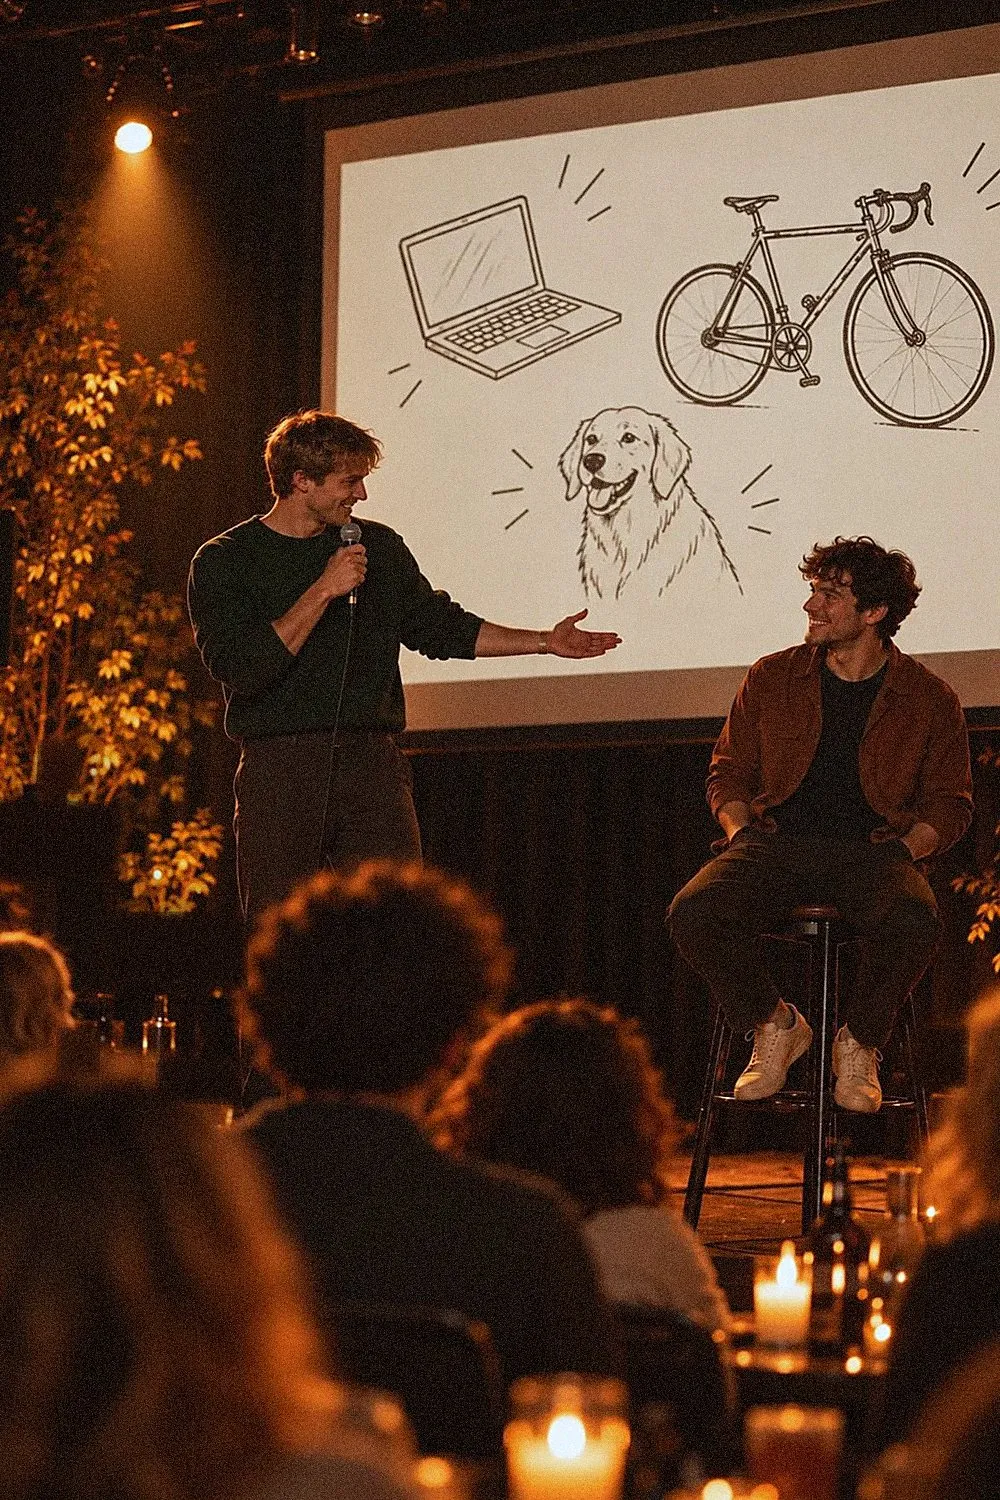
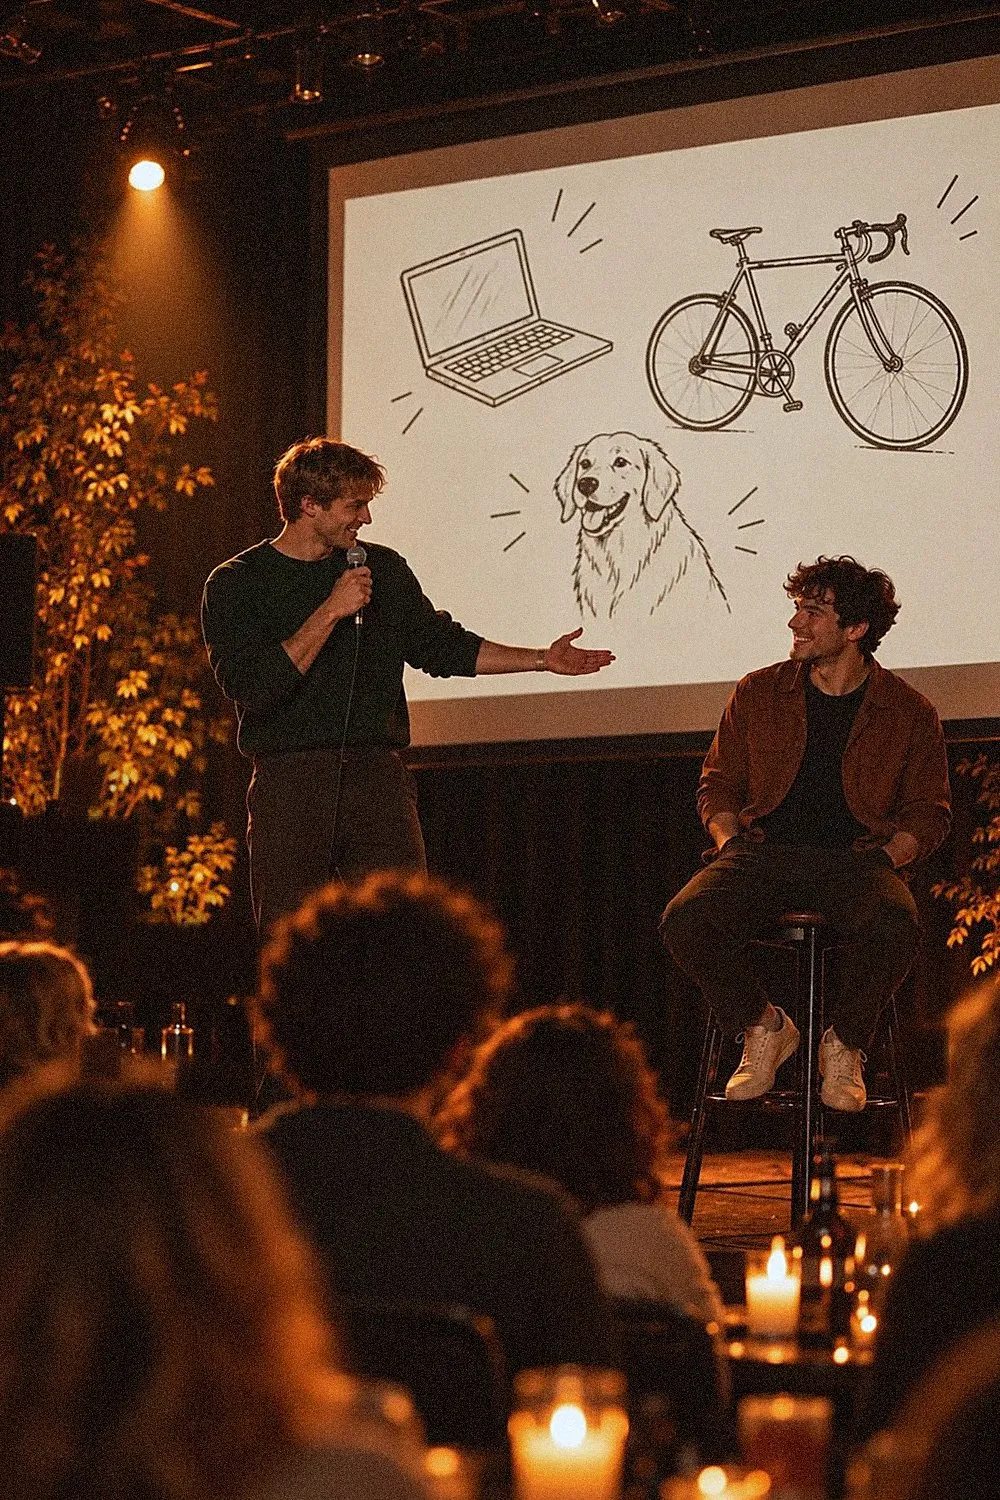
Fotka pódia: oddialené, viac publika

diff --git a/index.html b/index.html
@@ -21,7 +21,7 @@
   <link rel="preload" href="fonts/texgyreadventor-bold.woff2" as="font" type="font/woff2" crossorigin>
   <link rel="icon" type="image/png" href="favicon.png?v=3">
   <link rel="apple-touch-icon" href="img/apple-touch-icon.png?v=3">
-  <link rel="stylesheet" href="styles.css?v=271">
+  <link rel="stylesheet" href="styles.css?v=272">
   <script src="consent.js?v=2" defer></script>
 </head>
 <body>
@@ -189,7 +189,7 @@
             </div>
           </div>
           <div class="hero-photo podium-photo">
-            <img class="hero-img" loading="lazy" src="img/podium-prezentacia.webp?v=5" srcset="img/podium-prezentacia-600.webp?v=5 600w, img/podium-prezentacia-800.webp?v=5 800w, img/podium-prezentacia.webp?v=5 1000w" sizes="(max-width: 760px) 100vw, 40vw" alt="Kamarát na pódiu s mikrofónom predstavuje svojho single kamaráta, za nimi plátno s obrázkami jeho záľub" width="1000" height="1500">
+            <img class="hero-img" loading="lazy" src="img/podium-prezentacia.webp?v=6" srcset="img/podium-prezentacia-600.webp?v=6 600w, img/podium-prezentacia-800.webp?v=6 800w, img/podium-prezentacia.webp?v=6 1000w" sizes="(max-width: 760px) 100vw, 40vw" alt="Kamarát na pódiu s mikrofónom predstavuje svojho single kamaráta, za nimi plátno s obrázkami jeho záľub" width="1000" height="1500">
             <ul class="ifacts ifacts-ticket ifacts-lime ifacts-2x2">
               <li><p class="label">Na pódiu</p><strong>5 žien + 5 mužov</strong></li>
               <li><p class="label">Prezentácia</p><strong>max. 5 minút</strong></li>

diff --git a/single-show.html b/single-show.html
@@ -21,7 +21,7 @@
   <link rel="preload" href="fonts/texgyreadventor-bold.woff2" as="font" type="font/woff2" crossorigin>
   <link rel="icon" type="image/png" href="favicon.png?v=3">
   <link rel="apple-touch-icon" href="img/apple-touch-icon.png?v=3">
-  <link rel="stylesheet" href="styles.css?v=271">
+  <link rel="stylesheet" href="styles.css?v=272">
   <script src="consent.js?v=2" defer></script>
 </head>
 <body>
@@ -168,7 +168,7 @@
             </div>
           </div>
           <div class="hero-photo podium-photo">
-            <img class="hero-img" loading="lazy" src="img/podium-prezentacia.webp?v=5" srcset="img/podium-prezentacia-600.webp?v=5 600w, img/podium-prezentacia-800.webp?v=5 800w, img/podium-prezentacia.webp?v=5 1000w" sizes="(max-width: 760px) 100vw, 40vw" alt="Kamarát na pódiu s mikrofónom predstavuje svojho single kamaráta, za nimi plátno s obrázkami jeho záľub" width="1000" height="1500">
+            <img class="hero-img" loading="lazy" src="img/podium-prezentacia.webp?v=6" srcset="img/podium-prezentacia-600.webp?v=6 600w, img/podium-prezentacia-800.webp?v=6 800w, img/podium-prezentacia.webp?v=6 1000w" sizes="(max-width: 760px) 100vw, 40vw" alt="Kamarát na pódiu s mikrofónom predstavuje svojho single kamaráta, za nimi plátno s obrázkami jeho záľub" width="1000" height="1500">
             <ul class="ifacts ifacts-ticket ifacts-lime ifacts-2x2">
               <li><p class="label">Na pódiu</p><strong>5 žien + 5 mužov</strong></li>
               <li><p class="label">Prezentácia</p><strong>max. 5 minút</strong></li>

diff --git a/styles.css b/styles.css
@@ -884,7 +884,7 @@ h1, h2, h3, .logo, .plans-list, .price strong {
 .h1-long { font-size: clamp(2.6rem, 6vw, 5rem); }
 .podium-photo { padding: 0; } .podium-photo .hero-img { aspect-ratio: 1 / 1; }
 @media (max-width: 900px) { .podium-photo { margin-left: 0; max-width: none; } }
-.podium-photo .hero-img { aspect-ratio: 4 / 5; object-position: center 30%; }
+.podium-photo .hero-img { aspect-ratio: 4 / 5; object-position: center 68%; }
 .rules-art { width: min(260px, 70%); }
 
 /* Čo chystáme – fotka s mapou */

diff --git a/chystame.html b/chystame.html
@@ -21,7 +21,7 @@
   <link rel="preload" href="fonts/texgyreadventor-bold.woff2" as="font" type="font/woff2" crossorigin>
   <link rel="icon" type="image/png" href="favicon.png?v=3">
   <link rel="apple-touch-icon" href="img/apple-touch-icon.png?v=3">
-  <link rel="stylesheet" href="styles.css?v=271">
+  <link rel="stylesheet" href="styles.css?v=272">
   <script src="consent.js?v=2" defer></script>
 </head>
 <body>

diff --git a/clanok-30-minut-a-dost.html b/clanok-30-minut-a-dost.html
@@ -21,7 +21,7 @@
   <link rel="preload" href="fonts/texgyreadventor-bold.woff2" as="font" type="font/woff2" crossorigin>
   <link rel="icon" type="image/png" href="favicon.png?v=3">
   <link rel="apple-touch-icon" href="img/apple-touch-icon.png?v=3">
-  <link rel="stylesheet" href="styles.css?v=271">
+  <link rel="stylesheet" href="styles.css?v=272">
   <script src="consent.js?v=2" defer></script>
 </head>
 <body>

diff --git a/clanok-aha-moment-pri-tretom-drinku.html b/clanok-aha-moment-pri-tretom-drinku.html
@@ -21,7 +21,7 @@
   <link rel="preload" href="fonts/texgyreadventor-bold.woff2" as="font" type="font/woff2" crossorigin>
   <link rel="icon" type="image/png" href="favicon.png?v=3">
   <link rel="apple-touch-icon" href="img/apple-touch-icon.png?v=3">
-  <link rel="stylesheet" href="styles.css?v=271">
+  <link rel="stylesheet" href="styles.css?v=272">
   <script src="consent.js?v=2" defer></script>
 </head>
 <body>

diff --git a/clanok-ahoj-ako-je-mrtve.html b/clanok-ahoj-ako-je-mrtve.html
@@ -21,7 +21,7 @@
   <link rel="preload" href="fonts/texgyreadventor-bold.woff2" as="font" type="font/woff2" crossorigin>
   <link rel="icon" type="image/png" href="favicon.png?v=3">
   <link rel="apple-touch-icon" href="img/apple-touch-icon.png?v=3">
-  <link rel="stylesheet" href="styles.css?v=271">
+  <link rel="stylesheet" href="styles.css?v=272">
   <script src="consent.js?v=2" defer></script>
 </head>
 <body>

diff --git a/clanok-co-je-rande.html b/clanok-co-je-rande.html
@@ -21,7 +21,7 @@
   <link rel="preload" href="fonts/texgyreadventor-bold.woff2" as="font" type="font/woff2" crossorigin>
   <link rel="icon" type="image/png" href="favicon.png?v=3">
   <link rel="apple-touch-icon" href="img/apple-touch-icon.png?v=3">
-  <link rel="stylesheet" href="styles.css?v=271">
+  <link rel="stylesheet" href="styles.css?v=272">
   <script src="consent.js?v=2" defer></script>
 </head>
 <body>

diff --git a/clanok-kto-co-je-single.html b/clanok-kto-co-je-single.html
@@ -21,7 +21,7 @@
   <link rel="preload" href="fonts/texgyreadventor-bold.woff2" as="font" type="font/woff2" crossorigin>
   <link rel="icon" type="image/png" href="favicon.png?v=3">
   <link rel="apple-touch-icon" href="img/apple-touch-icon.png?v=3">
-  <link rel="stylesheet" href="styles.css?v=271">
+  <link rel="stylesheet" href="styles.css?v=272">
   <script src="consent.js?v=2" defer></script>
 </head>
 <body>

diff --git a/clanok-myty-single-po-tridsiatke.html b/clanok-myty-single-po-tridsiatke.html
@@ -21,7 +21,7 @@
   <link rel="preload" href="fonts/texgyreadventor-bold.woff2" as="font" type="font/woff2" crossorigin>
   <link rel="icon" type="image/png" href="favicon.png?v=3">
   <link rel="apple-touch-icon" href="img/apple-touch-icon.png?v=3">
-  <link rel="stylesheet" href="styles.css?v=271">
+  <link rel="stylesheet" href="styles.css?v=272">
   <script src="consent.js?v=2" defer></script>
 </head>
 <body>

diff --git a/clanok-stol-pre-jedneho.html b/clanok-stol-pre-jedneho.html
@@ -21,7 +21,7 @@
   <link rel="preload" href="fonts/texgyreadventor-bold.woff2" as="font" type="font/woff2" crossorigin>
   <link rel="icon" type="image/png" href="favicon.png?v=3">
   <link rel="apple-touch-icon" href="img/apple-touch-icon.png?v=3">
-  <link rel="stylesheet" href="styles.css?v=271">
+  <link rel="stylesheet" href="styles.css?v=272">
   <script src="consent.js?v=2" defer></script>
 </head>
 <body>

diff --git a/cookies.html b/cookies.html
@@ -21,7 +21,7 @@
   <link rel="preload" href="fonts/texgyreadventor-bold.woff2" as="font" type="font/woff2" crossorigin>
   <link rel="icon" type="image/png" href="favicon.png?v=3">
   <link rel="apple-touch-icon" href="img/apple-touch-icon.png?v=3">
-  <link rel="stylesheet" href="styles.css?v=271">
+  <link rel="stylesheet" href="styles.css?v=272">
   <script src="consent.js?v=2" defer></script>
 </head>
 <body>
